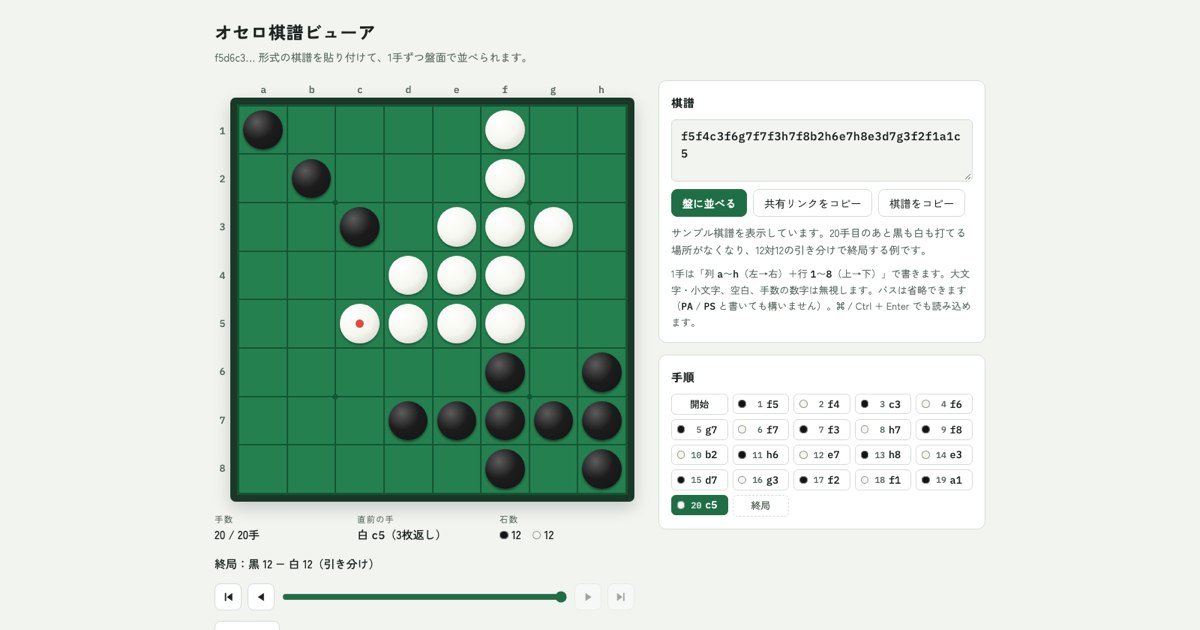
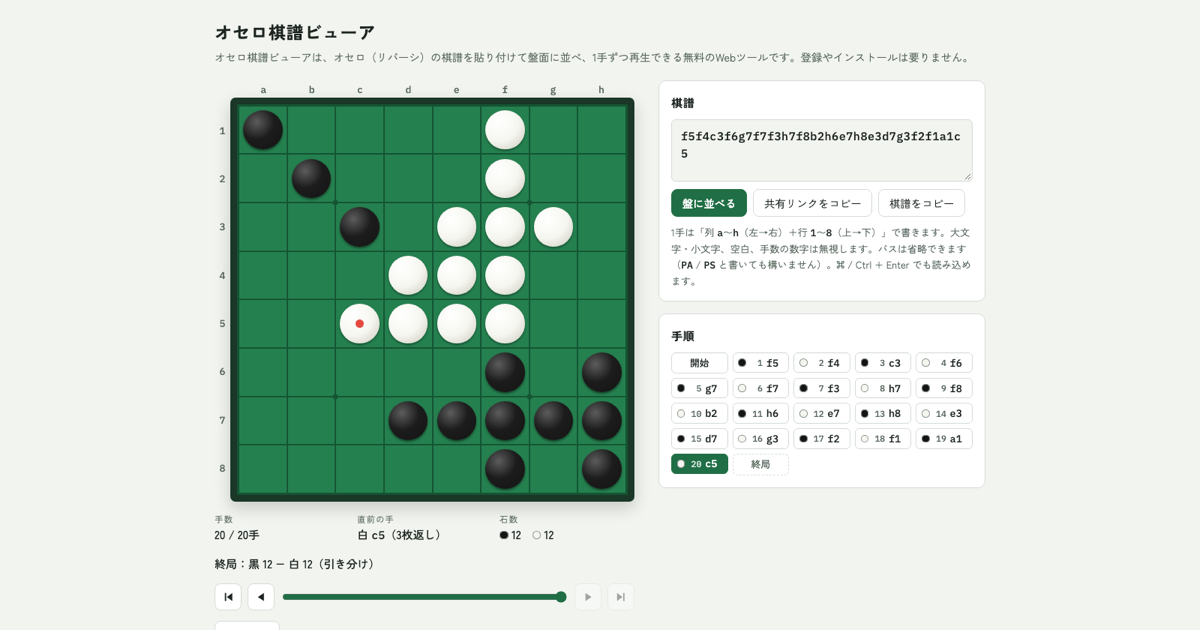
Add basic SEO: clearer copy, FAQ, sitemap, richer structured data
- Title/description worded for how people search (リバーシ, 棋譜並べ)
- Definitional intro sentence and a static FAQ readable without JS
- featureList / isAccessibleForFree in WebApplication JSON-LD
- sitemap.xml for Search Console; og.png refreshed for the new intro

diff --git a/index.html b/index.html
@@ -3,14 +3,14 @@
 <head>
 <meta charset="utf-8">
 <meta name="viewport" content="width=device-width, initial-scale=1, viewport-fit=cover">
-<title>オセロ棋譜ビューア｜棋譜を貼って盤面で1手ずつ再生</title>
-<meta name="description" content="f5d6c3… 形式のオセロ（リバーシ）の棋譜を貼り付けるだけで、盤面に並べて1手ずつ再生できる無料のWebツール。パスの自動補完、手順番号の表示、途中からの別の手の検討、URLでの棋譜共有に対応しています。">
+<title>オセロ棋譜ビューア｜棋譜を貼って盤面で再生・棋譜並べ</title>
+<meta name="description" content="オセロ（リバーシ）の棋譜を貼り付けるだけで、盤面に並べて1手ずつ再生できる無料のWebツール。f5d6c3形式に対応、登録不要でスマホでも使えます。">
 <meta name="google-site-verification" content="8TiFruOS2E7sx5RgzyL_S7E3B2GjnFg3VY-BQ84X-eg">
 <link rel="canonical" href="https://qsona.github.io/othello-kifu/">
 <meta property="og:type" content="website">
 <meta property="og:site_name" content="オセロ棋譜ビューア">
 <meta property="og:title" content="オセロ棋譜ビューア">
-<meta property="og:description" content="オセロの棋譜を貼り付けて、盤面で1手ずつ並べられる無料のWebツール。URLで棋譜ごと共有できます。">
+<meta property="og:description" content="オセロ（リバーシ）の棋譜を貼り付けて、盤面で1手ずつ並べられる無料のWebツール。URLで棋譜ごと共有できます。">
 <meta property="og:url" content="https://qsona.github.io/othello-kifu/">
 <meta property="og:image" content="https://qsona.github.io/othello-kifu/og.png">
 <meta property="og:image:width" content="1200">
@@ -29,6 +29,14 @@
   "applicationCategory": "GameApplication",
   "operatingSystem": "Any",
   "inLanguage": "ja",
+  "isAccessibleForFree": true,
+  "featureList": [
+    "f5d6c3 形式の棋譜の読み込みと1手ずつの再生",
+    "パスの自動補完",
+    "石への手順番号の表示",
+    "途中の局面からの別の手の検討",
+    "URL での棋譜と局面の共有"
+  ],
   "offers": { "@type": "Offer", "price": "0", "priceCurrency": "JPY" }
 }
 </script>
@@ -171,6 +179,10 @@ code { font-family: var(--font-mono); color: var(--fg); }
 .about ol, .about ul { margin: 0; padding-left: 1.3em; display: grid; gap: .25em; }
 .about p { margin: 0 0 .5em; }
 .about code { overflow-wrap: anywhere; }
+.faq { margin: 0; }
+.faq dt { font-weight: 700; margin-top: .9em; }
+.faq dt:first-child { margin-top: 0; }
+.faq dd { margin: .15em 0 0; }
 footer { margin-top: 28px; font-size: .8rem; color: var(--muted); }
 </style>
 </head>
@@ -178,7 +190,7 @@ footer { margin-top: 28px; font-size: .8rem; color: var(--muted); }
 <div class="wrap">
   <header>
     <h1>オセロ棋譜ビューア</h1>
-    <p>f5d6c3… 形式の棋譜を貼り付けて、1手ずつ盤面で並べられます。</p>
+    <p>オセロ棋譜ビューアは、オセロ（リバーシ）の棋譜を貼り付けて盤面に並べ、1手ずつ再生できる無料のWebツールです。登録やインストールは要りません。</p>
   </header>
 
   <main class="layout">
@@ -249,11 +261,22 @@ footer { margin-top: 28px; font-size: .8rem; color: var(--muted); }
         <li>「共有リンクをコピー」で、棋譜と表示中の手数を含んだ URL をコピーできます。</li>
       </ol>
     </section>
-    <section aria-labelledby="hUrl">
-      <h2 id="hUrl">URL で棋譜を開く</h2>
-      <p>URL の <code>kifu</code> に棋譜を、<code>move</code> に手数を付けると、その局面から開けます。<code>move</code> を省くと最後の局面を表示します。</p>
-      <p>例：<a href="?kifu=f5d6c3d3c4&amp;move=3"><code>?kifu=f5d6c3d3c4&amp;move=3</code></a></p>
-      <p>アドレスバーの URL は、表示中の棋譜と手数に合わせて自動で更新されます。</p>
+    <section aria-labelledby="hFaq">
+      <h2 id="hFaq">よくある質問</h2>
+      <dl class="faq">
+        <dt>どんな形式の棋譜を読み込めますか？</dt>
+        <dd><code>f5d6c3</code> のように、列（a〜h）と行（1〜8）の組を続けて書いた形式です。大文字・小文字、空白、「1.」のような手数の数字は無視するので、区切りや手数が入った棋譜もそのまま貼り付けられます。</dd>
+        <dt>パスはどう書けばいいですか？</dt>
+        <dd>書かなくて構いません。打てる場所がない側は自動でパスとして扱います。<code>PA</code> や <code>PS</code> と書いてあっても読み込めます。</dd>
+        <dt>棋譜を人に共有するには？</dt>
+        <dd>「共有リンクをコピー」を押すと、棋譜と表示中の手数を含んだ URL をコピーできます。URL の <code>kifu</code> に棋譜を、<code>move</code> に手数を付けると、その局面から開けます（例：<a href="?kifu=f5d6c3d3c4&amp;move=3"><code>?kifu=f5d6c3d3c4&amp;move=3</code></a>）。<code>move</code> を省くと最後の局面を表示します。</dd>
+        <dt>途中の局面から別の手を検討できますか？</dt>
+        <dd>できます。盤上の打てる場所（点の付いたマス）をクリックすると、その手から先を書き換えて表示します。「元の棋譜に戻す」で読み込んだ棋譜に戻せます。</dd>
+        <dt>打てない手が含まれているとどうなりますか？</dt>
+        <dd>何手目のどの手が打てないかを表示し、その直前の局面までを並べます。</dd>
+        <dt>スマホでも使えますか？</dt>
+        <dd>使えます。ブラウザで開くだけで、アプリのインストールや登録は要りません。</dd>
+      </dl>
     </section>
   </div>
 
